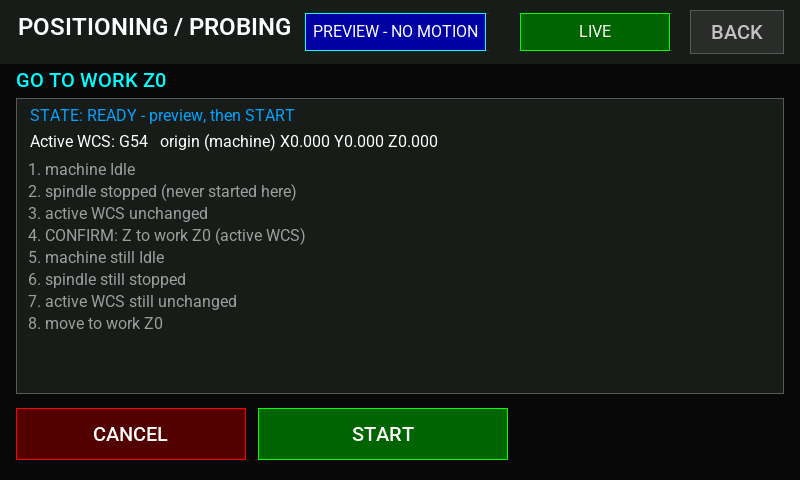
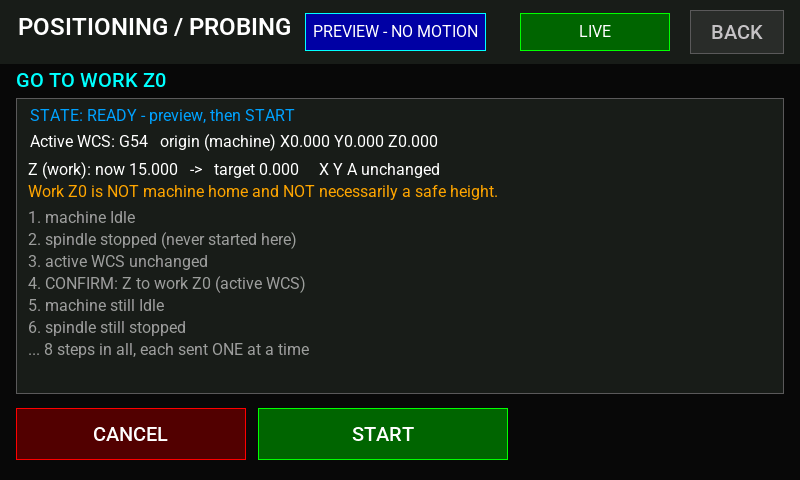
GO TO Z0 / XYZ0 display fixes and full-control commissioning preparation (Instructions 012 / 013)
012: GO TO WORK Z0 and X0 Y0 Z0 now show the active WCS, the current work position
and the target in the preview and on the running/pause page, and state that work Z0
is not machine home and not necessarily a safe height. The Z0 start dialog no longer
claims a clearance. Tests: full XYZ sequence (Z, pause, X/Y, second pause, Z0), cancel
at the second pause, loss of connection at a pause with no replay and no combined
X/Y+Z line; renderer frames for the XYZ routine.

013: tools/check_firmware_symbols.py proves from the built ELF/BIN that the ordinary
image has no machine-command transmit function, the full-control image has the Wi-Fi
and UART ones behind the shared policy, and no image contains a program-start string.
New command-interface test for the full-control class matrix (units: Z mm, A degrees;
program start/resume refused). New commissioning procedure document; the independent
stop is NOT installed, so the full-control image is not flashed.

Changed region(s): [[0.0312, 0.3438, 0.625, 0.75]]

diff --git a/src/jc8048w550/JcScreenWorkflow.cpp b/src/jc8048w550/JcScreenWorkflow.cpp
@@ -175,6 +175,24 @@ void JcWorkflowScreen::draw_live_lines() {
     _lines[0].draw(sv.display, { 16, 374, 768, 24 }, line, FontId::Body16, sv.model.fresh() ? ui::kGood : ui::kWarn, ui::kBg);
 }
 
+void JcWorkflowScreen::goto_values_line(char* out, size_t size) const {
+    const JcWorkflow& w = sv.wf;
+    if (!w.wpos_known()) { snprintf(out, size, "Work position: unknown (no fresh status)"); return; }
+    const double z = static_cast<double>(w.wpos_now(2));
+    switch (w.kind()) {
+        case JcWfKind::GoToZ:
+            snprintf(out, size, "Z (work): now %.3f   ->   target 0.000     X Y A unchanged", z);
+            break;
+        case JcWfKind::GoToXYZ:
+            snprintf(out, size, "Work now X%.3f Y%.3f Z%.3f  ->  Z%.3f, then X0 Y0, then Z0", static_cast<double>(w.wpos_now(0)),
+                     static_cast<double>(w.wpos_now(1)), z, static_cast<double>(w.params().clearance_z));
+            break;
+        default:
+            snprintf(out, size, "Work now X%.3f Y%.3f Z%.3f", static_cast<double>(w.wpos_now(0)), static_cast<double>(w.wpos_now(1)), z);
+            break;
+    }
+}
+
 void JcWorkflowScreen::draw_active() {
     const JcWorkflow& w = sv.wf;
     char line[140];
@@ -190,18 +208,32 @@ void JcWorkflowScreen::draw_active() {
         _lines[1].draw(sv.display, { 28, 130, 744, 24 }, line, FontId::Body16, WHITE, ui::kPanel);
     }
     if (w.state() == JcWfState::Planned) {
-        for (uint8_t i = 0; i < w.step_count() && i < 8; ++i) {
+        // GO TO routines: current and target values and the Z0 warning come first (Instruction 012)
+        const bool gt = jc_wf_is_goto(w.kind());
+        const int16_t top = gt ? 208 : 160;
+        const uint8_t shown = gt ? 6 : 8;
+        if (gt) {
+            goto_values_line(line, sizeof(line));
+            ui::text(sv.display, 28, 160, line, FontId::Body16, WHITE, ui::kPanel);
+            ui::text(sv.display, 28, 182, "Work Z0 is NOT machine home and NOT necessarily a safe height.", FontId::Body16, ui::kWarn, ui::kPanel);
+        }
+        for (uint8_t i = 0; i < w.step_count() && i < shown; ++i) {
             char s[80];
             w.preview_line(i, s, sizeof(s));
-            ui::text(sv.display, 28, 160 + i * 22, s, FontId::Body16, ui::kMuted, ui::kPanel);
+            ui::text(sv.display, 28, top + i * 22, s, FontId::Body16, ui::kMuted, ui::kPanel);
         }
-        if (w.step_count() > 8) {
+        if (w.step_count() > shown) {
             snprintf(line, sizeof(line), "... %u steps in all, each sent ONE at a time", static_cast<unsigned>(w.step_count()));
-            ui::text(sv.display, 28, 160 + 8 * 22, line, FontId::Body16, ui::kMuted, ui::kPanel);
+            ui::text(sv.display, 28, top + shown * 22, line, FontId::Body16, ui::kMuted, ui::kPanel);
         }
     } else if (w.state() == JcWfState::Running || w.state() == JcWfState::WaitOperator) {
         snprintf(line, sizeof(line), "Step %u of %u: %s", static_cast<unsigned>(w.step_index()) + 1u, static_cast<unsigned>(w.step_count()), w.step_label());
         _lines[2].draw(sv.display, { 28, 160, 744, 24 }, line, FontId::Body16, WHITE, ui::kPanel);
+        if (jc_wf_is_goto(w.kind())) {
+            goto_values_line(line, sizeof(line));
+            _lines[4].draw(sv.display, { 28, 226, 744, 24 }, line, FontId::Body16, ui::kInfo, ui::kPanel);
+            _lines[5].draw(sv.display, { 28, 254, 744, 24 }, "Work Z0 is NOT machine home and NOT necessarily a safe height.", FontId::Body16, ui::kWarn, ui::kPanel);
+        }
     } else if (bad) {
         _lines[2].draw(sv.display, { 28, 160, 744, 24 }, w.reason(), FontId::Body16, RED, ui::kPanel);
     } else if (w.state() == JcWfState::Done) {
@@ -440,6 +472,8 @@ void JcWorkflowScreen::on_touch(uint16_t x, uint16_t y) {
                 snprintf(l3, sizeof(l3), "Z rises to %.3f (work), then WAITS for you to change the tool by hand.", static_cast<double>(sv.wf.params().clearance_z));
             } else if (tool) {
                 snprintf(l3, sizeof(l3), "You touch the tool to the plate by hand first: the probe must react.");
+            } else if (sk == JcWfKind::GoToZ) {
+                snprintf(l3, sizeof(l3), "No clearance: Z goes straight to work Z0. Spindle stays stopped.");
             } else {
                 snprintf(l3, sizeof(l3), "Safe Z clearance %.3f (work).  Spindle stays stopped.", static_cast<double>(sv.wf.params().clearance_z));
             }
@@ -447,6 +481,10 @@ void JcWorkflowScreen::on_touch(uint16_t x, uint16_t y) {
             dialog.add_line(l1);
             dialog.add_line(l2);
             dialog.add_line(l3, ui::kWarn);
+            if (sk == JcWfKind::GoToZ || sk == JcWfKind::GoToXYZ) {
+                dialog.add_line("Work Z0 is NOT machine home and NOT necessarily a safe height.", ui::kWarn);
+                if (sk == JcWfKind::GoToXYZ) dialog.add_line("A second confirmation is required before Z lowers to Z0.");
+            }
             dialog.add_line("A failed step ends the routine: nothing is retried or resumed.");
             dialog.add_line("CANCEL sends a feed hold. It is NOT an emergency stop.", RED);
             draw();

diff --git a/test/host/test_jc_commands.cpp b/test/host/test_jc_commands.cpp
@@ -300,6 +300,61 @@ static void test_authority_gate() {
     b.live = false; CHECK(jc_authorize(JcCommandClass::JogCancel, b) == JcAuthDecision::BlockedNotLive);
 }
 
+// ---- Instruction 013: the full-control image enables exactly these command classes ------------------------------
+
+static void test_full_control_class_matrix() {
+    JcMachineProfile p = jc_default_profile();
+    JcAuthContext a;
+    a.armed = true; a.live = true; a.link_fresh = true; a.now_ms = a.command_issued_ms = 100; a.operator_confirmed = true;
+    strcpy(a.machine_state, "Idle");
+    struct Row { const char* name; JcCommand c; JcCommandClass cls; };
+    const Row rows[] = {
+        { "jog X (mm)", jc_jog_incremental(p, 0, 1.0f, 100.0f), JcCommandClass::Jog },
+        { "jog Y (mm)", jc_jog_incremental(p, 1, -1.0f, 100.0f), JcCommandClass::Jog },
+        { "jog Z (mm)", jc_jog_incremental(p, 2, 0.5f, 100.0f), JcCommandClass::Jog },
+        { "jog A (degrees)", jc_jog_incremental(p, 3, 5.0f, 600.0f), JcCommandClass::Jog },
+        { "jog cancel", jc_jog_cancel(), JcCommandClass::JogCancel },
+        { "home all", jc_home(p, 0xFF), JcCommandClass::Home },
+        { "home X", jc_home(p, 0), JcCommandClass::Home },
+        { "feed hold", jc_feed_hold(), JcCommandClass::Hold },
+        { "reset", jc_soft_reset(), JcCommandClass::Reset },
+        { "unlock", jc_unlock(), JcCommandClass::Unlock },
+        { "select G55", jc_select_wcs(1), JcCommandClass::WorkOffset },
+        { "set work offset", jc_zero_axis(p, 0), JcCommandClass::WorkOffset },
+        { "write G54 origin", jc_set_wcs_origin(0, true, 1.0f, true, 2.0f, true, 3.0f), JcCommandClass::WorkOffset },
+        { "tool length offset", jc_set_tlo(1.5f), JcCommandClass::WorkOffset },
+        { "clear tool length offset", jc_clear_tlo(), JcCommandClass::WorkOffset },
+        { "probe", jc_probe_move(p, 2, -5.0f, 100.0f), JcCommandClass::Probe },
+        { "go to work Z0", jc_goto_work_z(0.0f), JcCommandClass::Macro },
+        { "go to work X0 Y0", jc_goto_work_xy(true, 0.0f, true, 0.0f), JcCommandClass::Macro },
+        { "spindle stop", jc_spindle_stop(), JcCommandClass::Spindle },
+    };
+    for (const Row& r : rows) {
+        CHECK(r.c.ok && r.c.cls == r.cls);
+        CHECK(jc_command_line_allowed(r.c.cls, r.c.text) || r.c.realtime);                 // the one shared policy accepts it
+        CHECK(jc_authorize(r.cls, a) == JcAuthDecision::Allowed || jc_is_stop_always_allowed(r.cls));
+    }
+    // units: Z in millimetres, A in degrees; both in the same $J grammar
+    CHECK_STR(jc_jog_incremental(p, 2, -2.5f, 100.0f).text, "$J=G91G21F100Z-2.500");
+    CHECK_STR(jc_jog_incremental(p, 3, 5.0f, 600.0f).text, "$J=G91G21F600A5.000");
+    CHECK(p.axes[2].rotary == false && p.axes[3].rotary == true);
+    // the classes that are NEVER enabled, whatever the context: program start / resume and user macros
+    CHECK(jc_authorize(JcCommandClass::Job, a) == JcAuthDecision::BlockedProgramStart);
+    CHECK(!jc_command_bytes_allowed("~", 1) && !jc_command_bytes_allowed("$SD/Run=/a.nc\n", 14) && !jc_command_bytes_allowed("$Localfs/Run=/m.nc\n", 19));
+    // every one of them really reaches the transmit sink of the unified system and nothing else does
+    Rig q; q.run(600);
+    size_t n = 0;
+    for (const Row& r : rows) {
+        if (r.c.cls == JcCommandClass::Hold || r.c.cls == JcCommandClass::Reset || r.c.cls == JcCommandClass::JogCancel) continue;
+        if (r.c.cls == JcCommandClass::Jog && r.c.axis == 3) continue;                      // the simulator models X/Y/Z
+        Rig z; z.run(600);
+        CHECK(z.submit(r.c) == JcAuthDecision::Allowed);
+        CHECK(z.nc.wire.size() == 1 && z.nc.wire[0] == std::string(r.c.text) + "\n");
+        ++n;
+    }
+    CHECK(n >= 12);
+}
+
 // ---- every class through the unified system, simulated FluidNC -----------------------------------------------
 
 static void test_ack_and_result_for_each_class() {
@@ -585,6 +640,7 @@ int main() {
     test_builder_invalid_and_unsupported();
     test_positioning_builders();
     test_authority_gate();
+    test_full_control_class_matrix();
     test_ack_and_result_for_each_class();
     test_rejection_alarm_timeout_loss();
     test_single_operation_and_no_duplicate();

diff --git a/tools/check_firmware_symbols.py b/tools/check_firmware_symbols.py
@@ -1,0 +1,68 @@
+#!/usr/bin/env python3
+"""Symbol-level proof of the transmit path in the BUILT firmware (Instruction 013).
+
+Run after `pio run` for the environments. For each ELF it lists whether the machine-command transmit functions exist:
+  * ordinary image (jc8048w550):                    NO send_command_bytes anywhere (no machine-changing sink)
+  * live-jog test image:                            checked only for the absence of the full-control string
+  * full-control image (jc8048w550_fullcontrol_test): Wi-Fi AND UART send_command_bytes present, all behind the shared
+                                                    jc_command_bytes_allowed() policy
+Also greps the binaries for program-start strings, which must never be present. Exit status 1 on any violation.
+"""
+import os
+import subprocess
+import sys
+
+root = os.path.dirname(os.path.dirname(os.path.abspath(__file__)))
+home = os.path.expanduser("~")
+nm = os.path.join(home, ".platformio", "packages", "toolchain-xtensa-esp32s3", "bin", "xtensa-esp32s3-elf-nm")
+if os.name == "nt":
+    nm += ".exe"
+fail = []
+
+
+def symbols(env):
+    elf = os.path.join(root, ".pio", "build", env, "firmware.elf")
+    if not os.path.exists(elf):
+        fail.append(f"{env}: firmware.elf missing (build it first)")
+        return None
+    return subprocess.run([nm, "-C", elf], capture_output=True, text=True, check=True).stdout
+
+
+def binary(env):
+    with open(os.path.join(root, ".pio", "build", env, "firmware.bin"), "rb") as f:
+        return f.read()
+
+
+ordinary = symbols("jc8048w550")
+full = symbols("jc8048w550_fullcontrol_test")
+if ordinary is not None:
+    if "send_command_bytes" in ordinary:
+        fail.append("ordinary image contains a machine-command transmit function")
+    if "jc_command_bytes_allowed" not in ordinary:
+        print("note: ordinary image has no policy symbol (inlined)")
+if full is not None:
+    for need in ("JcReadOnlyFluidNc::send_command_bytes", "JcUartLink::send_command_bytes", "JcCommandSystem::checked_tx", "jc_command_bytes_allowed"):
+        if need not in full:
+            fail.append(f"full-control image lacks {need}")
+for env in ("jc8048w550", "jc8048w550_fullcontrol_test", "jc8048w550_livejog_test"):
+    try:
+        data = binary(env)
+    except OSError:
+        fail.append(f"{env}: firmware.bin missing")
+        continue
+    for bad in (b"SD/Run", b"Localfs/Run", b"SD/Resume"):
+        if bad in data:
+            fail.append(f"{env}: contains the program-start string {bad.decode()}")
+    banner = b"FULL CONTROL TEST BUILD" in data
+    print(f"{env}: full-control banner={'yes' if banner else 'no'}")
+    if env != "jc8048w550_fullcontrol_test" and banner:
+        fail.append(f"{env}: carries the full-control banner")
+    if env == "jc8048w550_fullcontrol_test" and not banner:
+        fail.append("full-control image lacks its banner")
+print("ordinary: send_command_bytes", "ABSENT" if ordinary is not None and "send_command_bytes" not in ordinary else "PRESENT/unknown")
+print("full-control: Wi-Fi send_command_bytes", "present" if full and "JcReadOnlyFluidNc::send_command_bytes" in full else "MISSING",
+      "| UART send_command_bytes", "present" if full and "JcUartLink::send_command_bytes" in full else "MISSING")
+for m in fail:
+    print("FAIL:", m)
+print("check_firmware_symbols:", "FAIL" if fail else "PASS")
+sys.exit(1 if fail else 0)

diff --git a/test/host/ui_render.cpp b/test/host/ui_render.cpp
@@ -1407,6 +1407,31 @@ static void scenarios() {
             xs.enter();
             touch_center(xs, ui::Rect { 16, 298, 372, 46 });          // GO TO WORK X0 Y0 Z0
             check_frame(x.gfx, "workflow_setup_xyz", false);
+            // XYZ routine with an operator-entered clearance of 20 (work), driven through the screen's active page
+            JcWfParams xp; xp.clearance_set = true; xp.clearance_z = 20.0f;
+            x.nc.m[2] = 10;
+            x.status("Idle", 50, 50, 10, 0);
+            x.wf.prepare(JcWfKind::GoToXYZ, xp, x.wf_status(), g_stub_millis);
+            x.wf_run(600);
+            xs.show_active();
+            xs.draw();
+            check(x.wf.state() == JcWfState::Planned, "GO TO WORK X0 Y0 Z0 is planned with the entered clearance");
+            check_frame(x.gfx, "workflow_preview_xyz", false);
+            touch_center(xs, ui::Rect { 258, 408, 250, 52 });          // START
+            check_frame(x.gfx, "workflow_start_confirm_xyz", true);
+            touch_center(xs, ui::kDialogConfirm);
+            for (int i = 0; i < 60 && x.wf.state() == JcWfState::Running; ++i) x.wf_run(300);
+            xs.tick(g_stub_millis + 300);
+            check(x.wf.state() == JcWfState::WaitOperator && x.wire.find("X0.000") == std::string::npos, "pause 1: Z is at the clearance, X/Y not yet commanded");
+            check_frame(x.gfx, "workflow_xyz_pause1", false);
+            x.wf.continue_after_pause(g_stub_millis);
+            for (int i = 0; i < 60 && x.wf.state() == JcWfState::Running; ++i) x.wf_run(300);
+            xs.tick(g_stub_millis + 300);
+            check(x.wf.state() == JcWfState::WaitOperator && x.wire.find("Z0.000") == std::string::npos, "pause 2: X/Y reached, Z0 not yet commanded");
+            check_frame(x.gfx, "workflow_xyz_pause2", false);
+            touch_center(xs, ui::Rect { 16, 408, 230, 52 });           // CANCEL during the second pause
+            for (int i = 0; i < 20; ++i) x.wf_run(300);
+            check(x.wire.find("Z0.000") == std::string::npos, "cancel at the second pause prevents the lowering to Z0");
         }
         // a failed contact
         Rig f;

diff --git a/test/host/test_jc_workflow.cpp b/test/host/test_jc_workflow.cpp
@@ -235,6 +235,29 @@ static void test_goto_z_and_xyz() {
     CHECK(c.wf.state() == JcWfState::WaitOperator);
     c.wf.cancel(c.nc.now); c.run(2000);
     CHECK(c.count("G21 G90 G0 Z0.000") == 0);
+    {   // Instruction 012: the exact XYZ sequence, one axis group at a time, no diagonal XYZ move, no replay after a lost link
+        Rig s;
+        s.nc.off[0][0] = 10; s.nc.off[0][1] = 20; s.nc.off[0][2] = -5;
+        s.nc.m[0] = 70; s.nc.m[1] = 80; s.nc.m[2] = 10;                // work (60, 60, 15), clearance 20 is above it
+        CHECK(s.prepare(JcWfKind::GoToXYZ, p));
+        CHECK(s.wf.wpos_known() && fabsf(s.wf.wpos_now(2) - 15.0f) < 0.01f);   // the current work Z is available for display
+        s.wf.start(s.nc.now); s.go();
+        NEAR(s.nc.work(2), 20.0f, 0.06f); NEAR(s.nc.work(0), 60.0f, 0.06f);    // D: only Z moved, to the clearance
+        s.wf.continue_after_pause(s.nc.now); s.go();                           // E -> F
+        NEAR(s.nc.work(0), 0.0f, 0.06f); NEAR(s.nc.work(1), 0.0f, 0.06f); NEAR(s.nc.work(2), 20.0f, 0.06f);
+        CHECK(s.wf.state() == JcWfState::WaitOperator);                        // G: second confirmation
+        const size_t before = s.sent_log.size();
+        s.sys.on_link_lost(); s.wf.on_link_lost();                             // the connection drops at the pause
+        s.run(5000);
+        CHECK(s.wf.state() != JcWfState::WaitOperator && s.wf.state() != JcWfState::Done);
+        s.wf.continue_after_pause(s.nc.now); s.run(5000);
+        CHECK(s.sent_log.size() == before && s.count("G21 G90 G0 Z0.000") == 0);   // nothing replayed or continued
+        NEAR(s.nc.work(2), 20.0f, 0.06f);
+        for (const std::string& t : s.sent_log) {                              // never a combined X/Y with Z in one line
+            const bool hasZ = t.find(" Z") != std::string::npos, hasXY = t.find(" X") != std::string::npos || t.find(" Y") != std::string::npos;
+            CHECK(!(hasZ && hasXY));
+        }
+    }
     CHECK(strcmp(jc_wf_title(JcWfKind::GoToZ), "GO TO WORK Z0") == 0 && strcmp(jc_wf_title(JcWfKind::GoToXYZ), "GO TO WORK X0 Y0 Z0") == 0);
 }
 

diff --git a/src/jc8048w550/JcWorkflow.hpp b/src/jc8048w550/JcWorkflow.hpp
@@ -459,6 +459,8 @@ public:
     const JcWfParams& params() const { return _p; }
     const JcWfStep& step(uint8_t i) const { return _plan[i]; }
     const float* offset(uint8_t idx) const { return _offsets[idx]; }
+    bool  wpos_known() const { return _status.wpos_valid; }
+    float wpos_now(uint8_t axis) const { return _status.wpos[axis < 4 ? axis : 0]; }   // work position from the last status report
     bool probe_slot_ok(uint8_t i) const { return i < kJcWfSlots && _slot_ok[i]; }
     uint32_t commands_sent() const { return _sent; }
     // One line per planned step for the preview.

diff --git a/src/jc8048w550/JcScreens.hpp b/src/jc8048w550/JcScreens.hpp
@@ -224,6 +224,7 @@ private:
     void request_action(uint8_t which);   // 1 move to centre, 2 set work origin, 3 apply tool offset, 4 clear tool offset
     Mode _mode = Mode::List;
     JcWfKind _kind = JcWfKind::GoToXY;
+    void goto_values_line(char* out, size_t size) const;   // current / target work values for the GO TO routines
     JcWfParams _p;
     uint8_t _edit = 0;
     uint8_t _action_pending = 0;   // 1 = move to centre, 2 = set work origin (waiting for the confirmation)

diff --git a/docs/development/jc-commissioning-procedure.md b/docs/development/jc-commissioning-procedure.md
@@ -1,0 +1,45 @@
+# Full-control commissioning procedure (Instruction 013)
+
+Status: **PREPARED, NOT STARTED.** The full-control image (`env:jc8048w550_fullcontrol_test`) is built and software-verified but has **not been flashed**, and no machine-changing command has been transmitted to any controller.
+
+## 0. Hard prerequisite: independent stop
+
+The owner has confirmed: no independent physical E-stop is installed; soft limits OFF; hard limits OFF; machine position not established.
+
+**Do not flash the full-control image and do not send physical motion until an independent stopping arrangement is installed and functionally verified (its own test, recorded here, signed off by the owner).** FEED HOLD and RESET on the pendant are not an emergency stop. This section is not marked complete on an assumption.
+
+- [ ] Independent stop installed (describe): ____
+- [ ] Functionally verified with the spindle/drives in a safe state (date, who): ____
+- [ ] Owner written authorization to flash the full-control image: ____
+
+## 1. What the full-control image does (verified in software)
+
+Enabled through ONE shared command system (gate → `JcCommandSystem` → `checked_tx` → `jc_command_bytes_allowed`, used by Wi-Fi, UART and BLE): incremental jog X/Y/Z (mm) and A (degrees), jog cancel (0x85), homing (`$H`, `$H<axis>`), feed hold (`!`), WCS selection (G54..G59), work-offset set (`G10 L20` / `G10 L2`), guided probing (`G38.2`), tool length offset (`G43.1` / `G49`), built-in positioning (`G21 G90 G0` Z, X/Y), `M5`, `$X`, and a confirmed reset (0x18). FluidNC is the authority on motion; the pendant does not require homing before jogging and has no motion planner.
+
+**Never enabled, in any build or transport:** `$SD/Run`, cycle start / resume (`~`), user macro files, any `$SD/…` or `$Localfs/…` command. Read-only SD browsing and job monitoring remain.
+
+Proof, repeatable: `python tools/check_firmware_symbols.py` (after building the environments) shows the ordinary image has no `send_command_bytes`, the full-control image has the Wi-Fi and UART ones behind the shared policy, and no image contains a program-start string.
+
+Controller replies: `ok` acknowledges (a motion command then waits for FluidNC to report Idle at the verified position), `error:N` and `ALARM:N` are shown with their numbers and end the operation, no reply within the class timeout ends it as "unknown", loss of the connection ends everything in flight. Nothing is ever resent or replayed after a reconnection; reconnecting restores monitoring, never arming.
+
+## 2. Functional tests, in this order (each after the previous passed)
+
+Use the smallest steps, the spindle removed or off, nothing in the work area, one person at the stop. Record the pendant's result line and FluidNC's reply for each.
+
+1. **X incremental jog:** +/- 1 mm at 100 mm/min. Direction and distance match a dial indicator. Repeat 10 mm.
+2. **Y incremental jog:** same.
+3. **Z direction and positioning:** + must move AWAY from the work (up). 0.5 mm steps, then 5 mm. Confirm mm units against a gauge.
+4. **A rotary:** +5 degrees, then 45 degrees; confirm direction and degrees-per-step with a mark/protractor. A is in degrees, never mm.
+5. **Verify the homing configuration without homing:** READ FROM CONTROLLER shows the homing switches/cycles and soft/hard limits (read-only). Confirm Z's homing configuration is what you expect. Do not change the FluidNC configuration from the pendant.
+6. **X/Y homing, one axis at a time** (`$HX`, then `$HY`) before any all-axis home. Do not use automatic homing as the first test.
+7. **Work Z0:** with a known WCS, GO TO WORK Z0 (confirm). Verify it is work Z0 of the active WCS and not machine home.
+8. **Work X0 Y0 Z0:** enter a clearance above Z0; check pause 1, X/Y, pause 2, lowering. Cancel at pause 2 once to prove the lowering is not sent.
+9. **Probe contact:** touch the stylus by hand, confirm the pin state changes (`Pn:P`) before any probing move.
+10. **Guided centre finding** on a known gauge (bore / boss): size equals the gauge, wrong tip radius is flagged; no offset is written without the explicit SET button; read-back matches `$#`.
+11. **Tool measurement:** reference tool, then change tool by hand and measure; confirm the sign of the offset on the machine (G43.1) before relying on it.
+
+Stop at the first unexpected result and record it; do not continue to the next test.
+
+## 3. Evidence to keep
+
+Photographs of the pendant at each step, the serial log of the session, FluidNC's replies, the date, the firmware revision (`git describe`) and the image hash.

diff --git a/docs/development/jc-live-jog-readiness.md b/docs/development/jc-live-jog-readiness.md
@@ -876,3 +876,9 @@ All targets are WORK coordinates of the currently selected G54..G59 system (read
 Only Z and X/Y words are ever sent, so the A axis keeps its position. The combined routine is three separate commands (the one command policy accepts only Z alone or X/Y), each verified by FluidNC's Idle report and the reached work position. CANCEL at either pause sends nothing further. The ordinary firmware still rehearses these on the simulated controller only; the full-control image was not flashed and nothing was transmitted to a machine.
 
 Tests: `test_jc_workflow.cpp` (341 checks) covers G55 with a non-zero G54, nothing moving before the confirmations, exactly the expected commands (no G53 / G92 / G10 / A), offsets untouched, X/Y untouched by Z0, refusal of a missing / zero / negative clearance for XYZ, and cancel at the second pause. The renderer checks nine non-overlapping list buttons (>= 38 px) and that the new wait labels fit.
+
+## 18. Instruction 012 / 013 summary
+
+**012 (ordinary firmware):** GO TO WORK Z0 and X0 Y0 Z0 previews and confirmation dialogs now show the active WCS, the CURRENT work position and the TARGET, and state on screen that work Z0 is not machine home and not necessarily a safe height; the status page shows the same while the routine waits. (A defect found while verifying: the Z0 dialog said "Safe Z clearance 0.000" although Z0 has no clearance.)
+
+**013 (full-control firmware prepared, not flashed):** see [jc-commissioning-procedure.md](jc-commissioning-procedure.md). `tools/check_firmware_symbols.py` proves from the built ELF/BIN files that the ordinary image has no machine-command transmit function and the full-control image has the Wi-Fi and UART ones behind the shared policy, with no program-start string in any image. `test_full_control_class_matrix` (command interface suite) checks that every enabled class reaches the transmit sink as exactly one policy-valid line, that Z is in mm and A in degrees, and that program start / resume stay refused. The independent stopping system is NOT installed or verified; the full-control image must not be flashed until it is.
